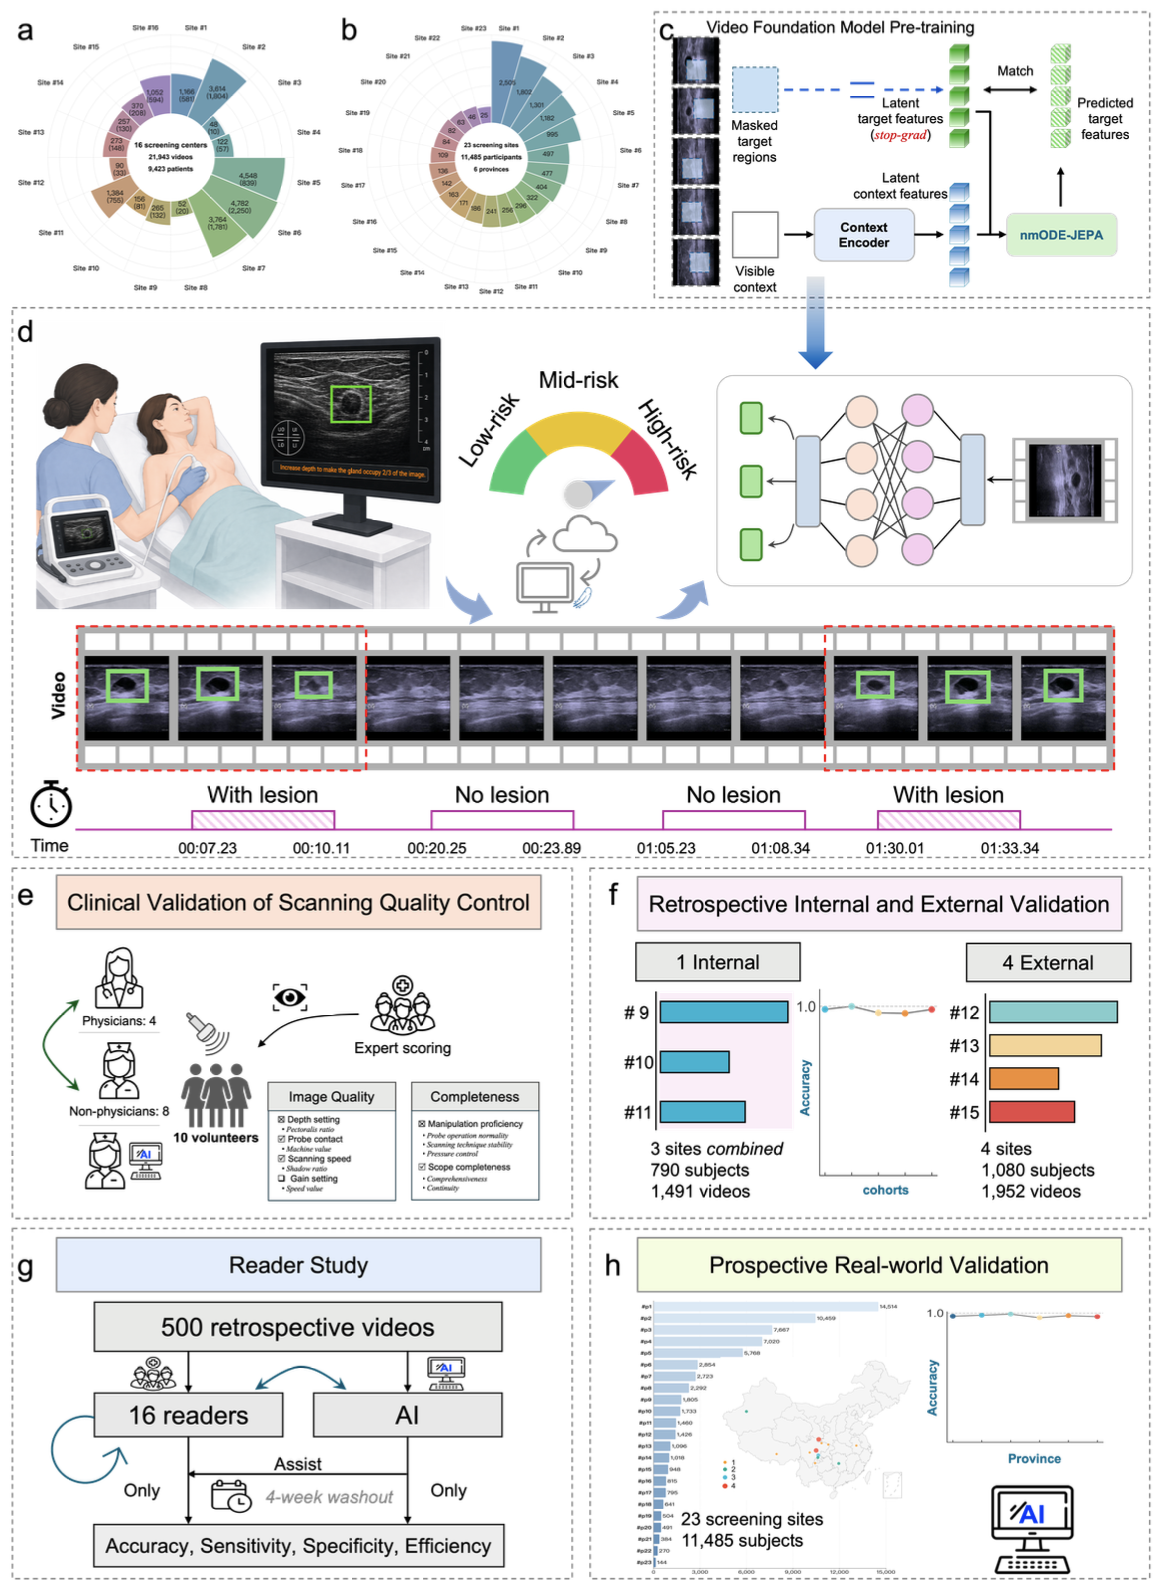
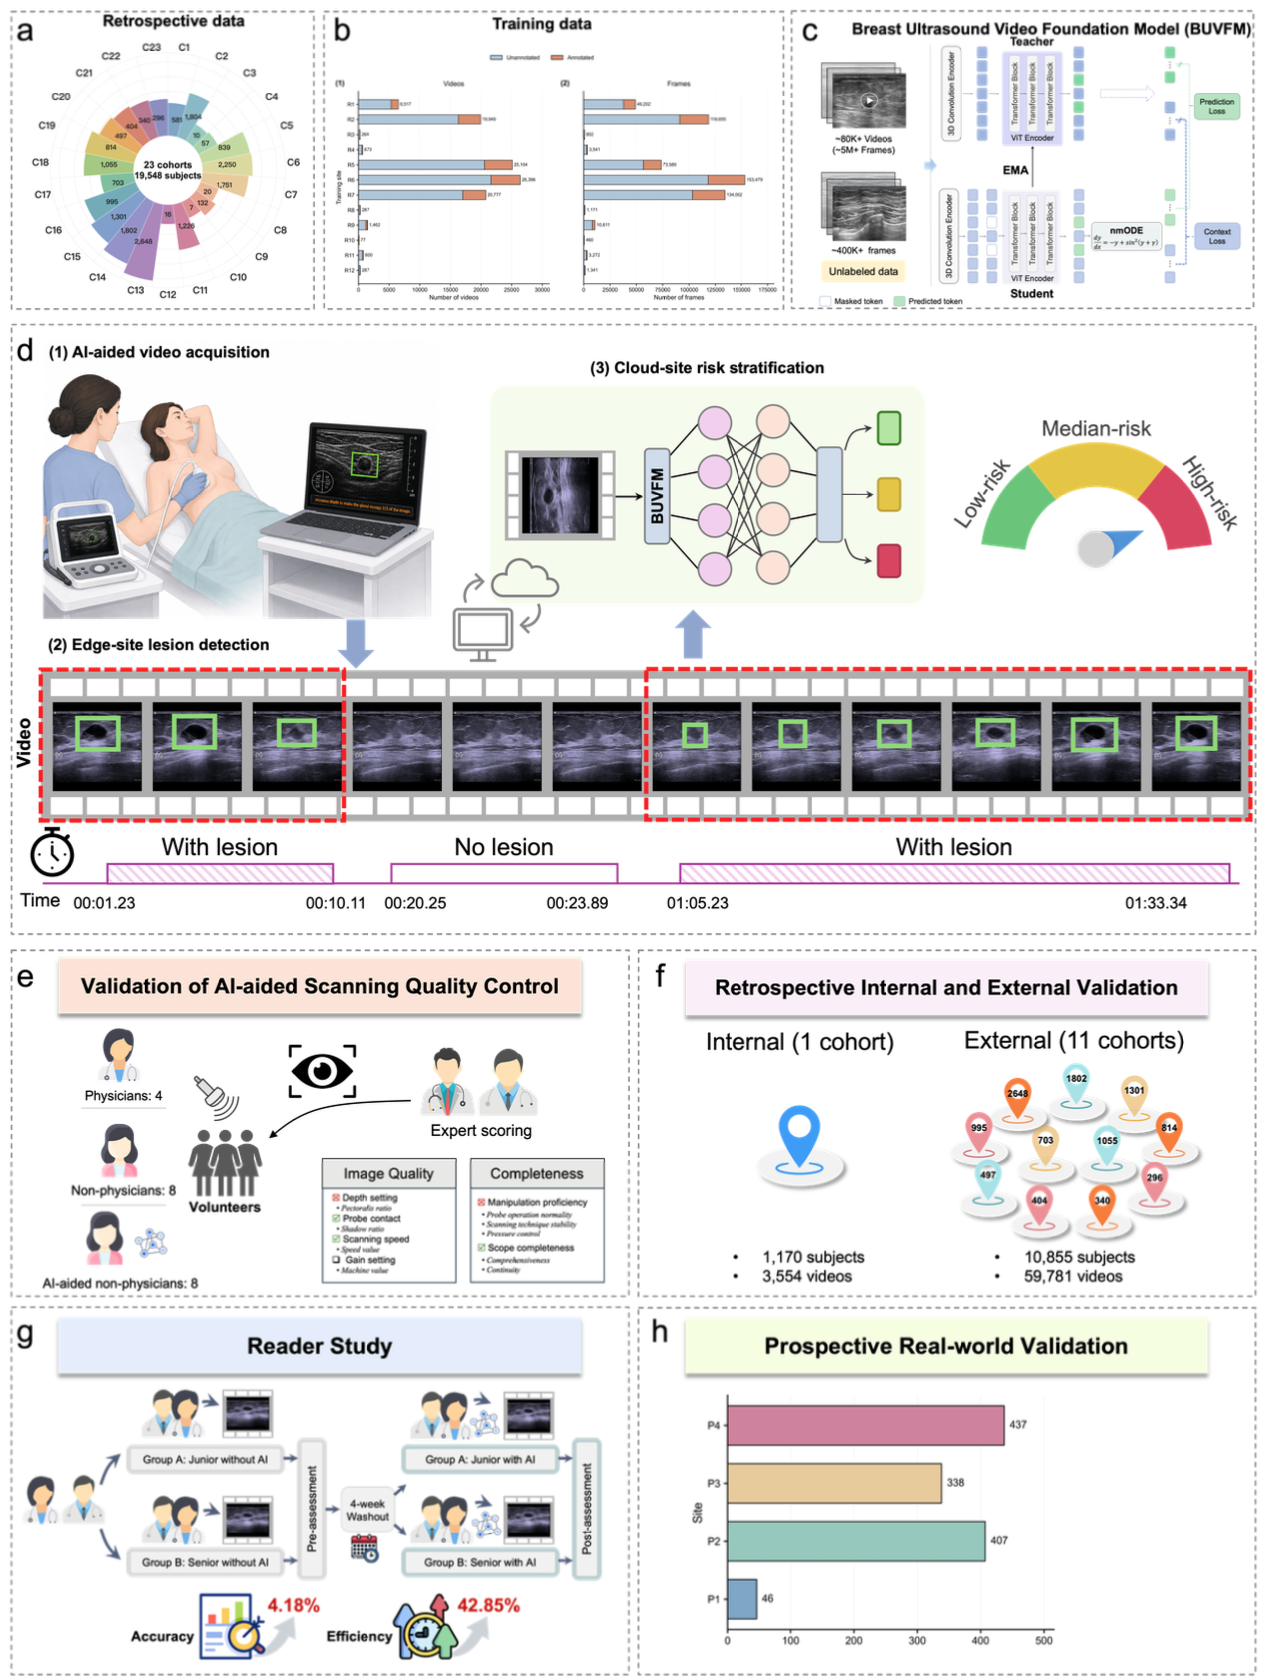
updating

diff --git a/.ipynb_checkpoints/astro.config-checkpoint.ts b/.ipynb_checkpoints/astro.config-checkpoint.ts
@@ -1,0 +1,63 @@
+import { defineConfig, fontProviders } from "astro/config";
+import tailwindcss from "@tailwindcss/vite";
+import icon from "astro-icon";
+import mdx from "@astrojs/mdx";
+
+import remarkMath from "remark-math";
+import rehypeKatex from "rehype-katex";
+import rehypeCitation from "rehype-citation";
+
+import react from "@astrojs/react";
+
+import astroExpressiveCode from "astro-expressive-code";
+
+// https://astro.build/config
+export default defineConfig({
+  vite: {
+    plugins: [tailwindcss()],
+  },
+  markdown: {
+    remarkPlugins: [remarkMath],
+    rehypePlugins: [
+      rehypeKatex,
+      [
+        rehypeCitation,
+        {
+          bibliography: "bibliography.bib",
+          linkCitations: true,
+        },
+      ],
+    ],
+  },
+  integrations: [
+    icon(),
+    astroExpressiveCode({
+      styleOverrides: {
+        borderRadius: "0.5rem",
+        borderWidth: "0",
+        codeBackground: ({ theme }) =>
+          `var(--color-zinc-${theme.type === "dark" ? "800" : "200"})`,
+        frames: {
+          shadowColor: "transparent",
+        },
+      },
+      themeCssSelector: (theme) =>
+        theme.type === "dark" ? `[data-theme="dark"]` : `[data-theme="light"]`,
+    }),
+    mdx(),
+    react(),
+  ],
+  experimental: {
+    fonts: [
+      {
+        provider: fontProviders.google(),
+        name: "Noto Sans",
+        cssVariable: "--font-noto-sans",
+        weights: ["100 900"],
+      },
+    ],
+  },
+  image: {
+    responsiveStyles: true,
+  },
+});